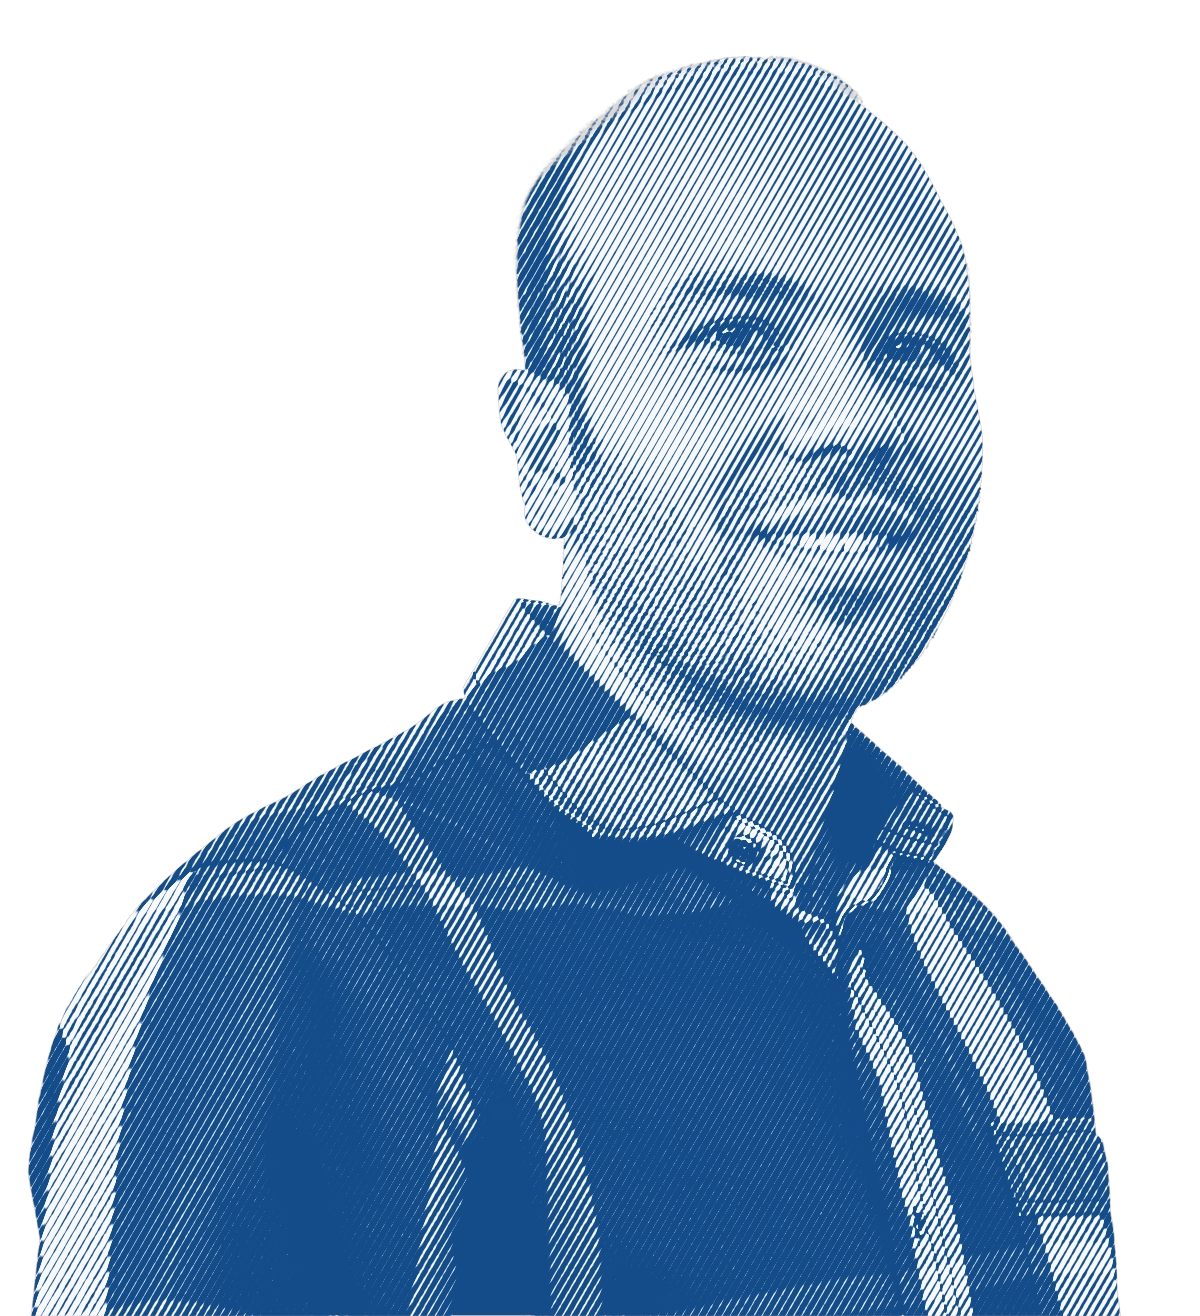
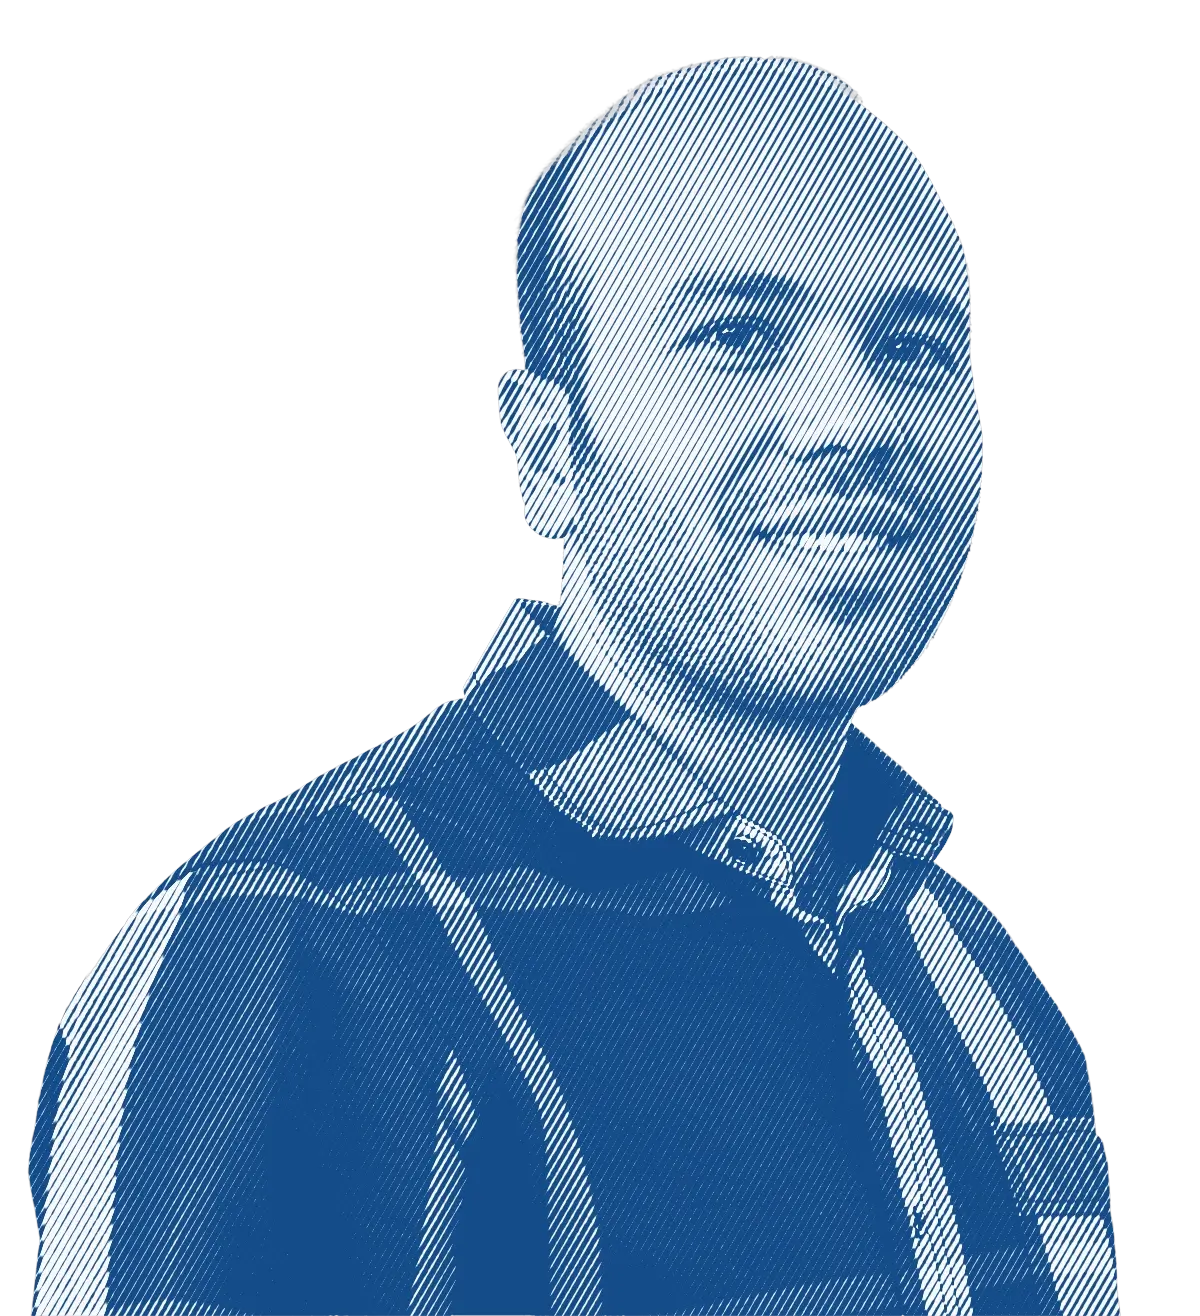
Added key tenets and brands

diff --git a/src/styles/global.css b/src/styles/global.css
@@ -156,7 +156,7 @@
   --font-size-base: 1.08rem;
   --font-size-h1: clamp(2.5rem, 2.75vw + 0.2rem, 2.75rem);
   --font-size-h2: clamp(2.15rem, 2.15vw + 0.2rem, 2.4rem);
-  --font-size-h3: clamp(1.55rem, 1.55vw + 0.2rem, 1.95rem);
+  --font-size-h3: clamp(1.55rem, 1.55vw + 0.1rem, 1.95rem);
   --font-size-h4: clamp(1.25rem, 1.25vw + 0.2rem, 1.4rem);
   --font-size-h5: clamp(1.16rem, 1.16vw + 0.4rem, 1.2rem);
   --font-size-h6: 0.875rem;
@@ -997,8 +997,5 @@ form,
 @keyframes fadeIn {
   from {
     opacity: 0;
-  }
-  to {
-    opacity: 1;
   }
 }
